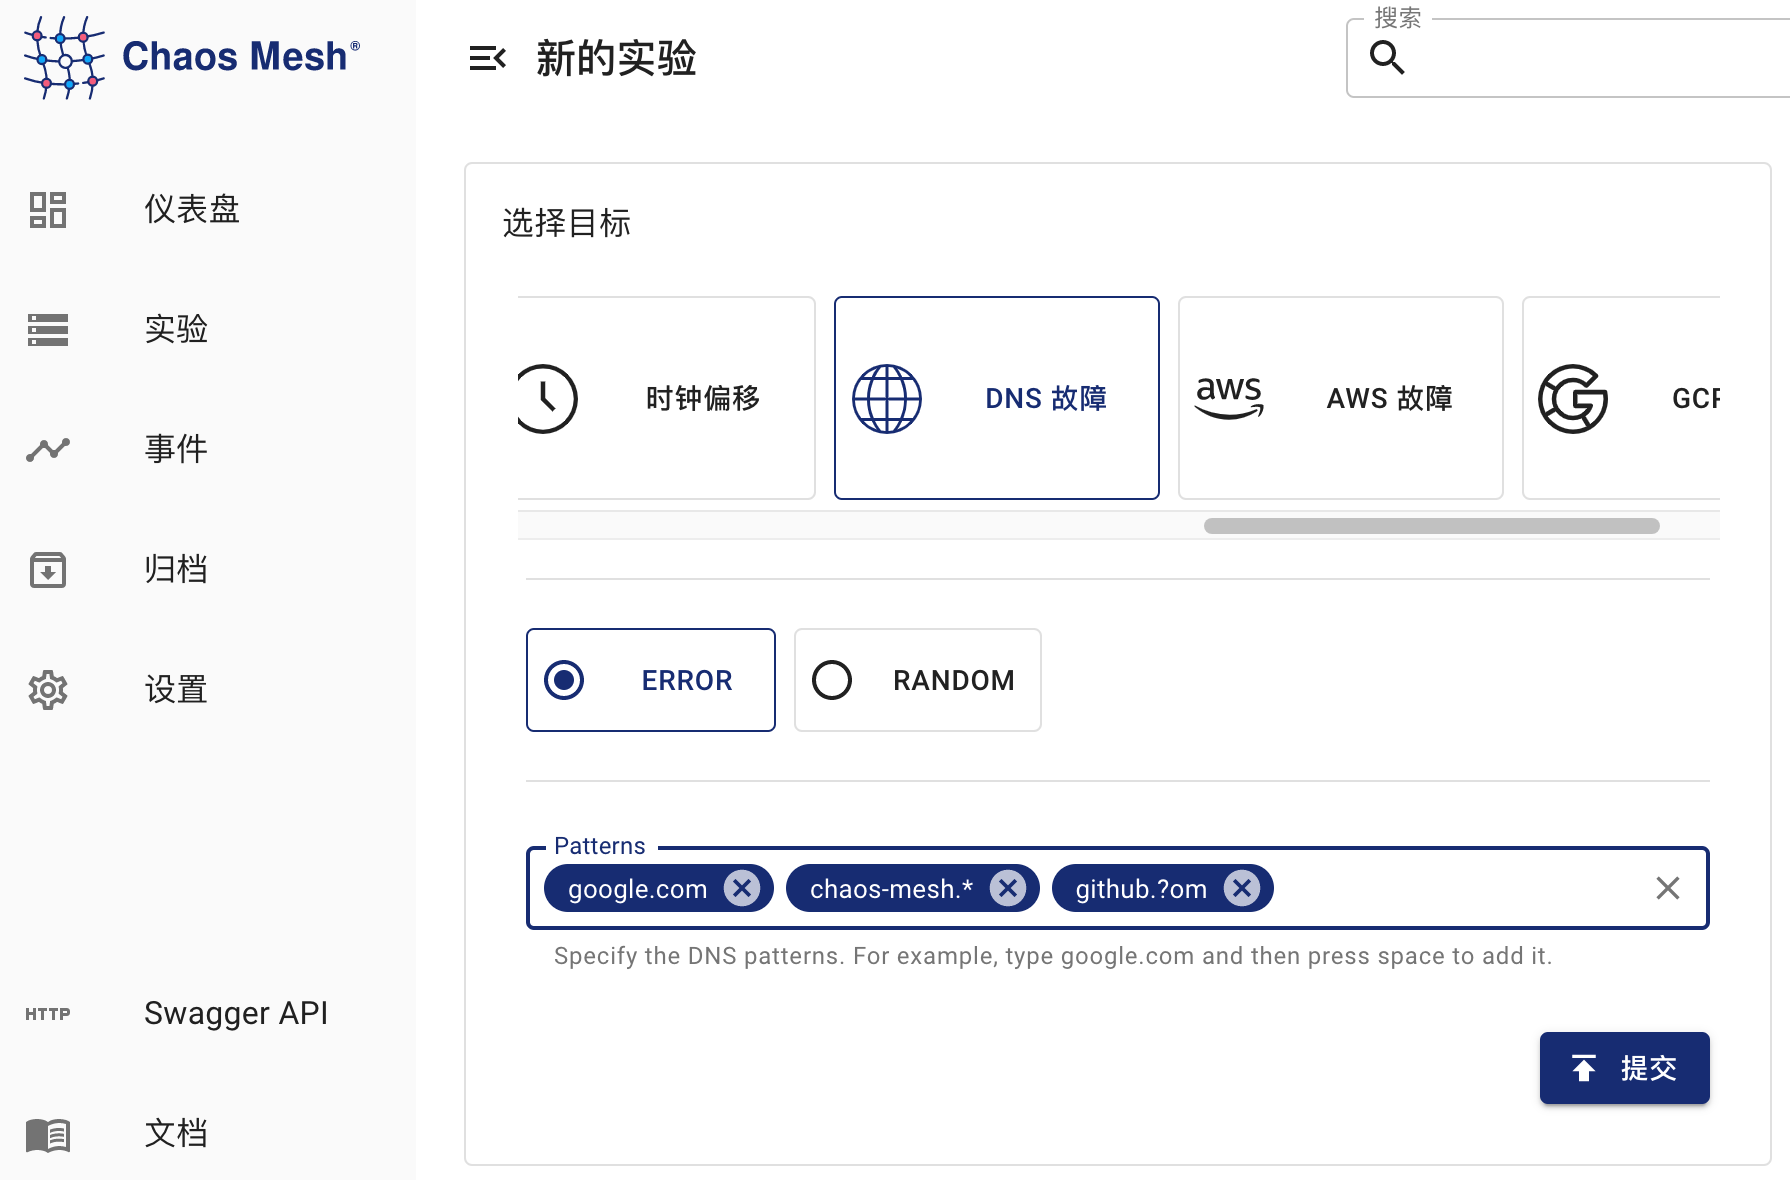
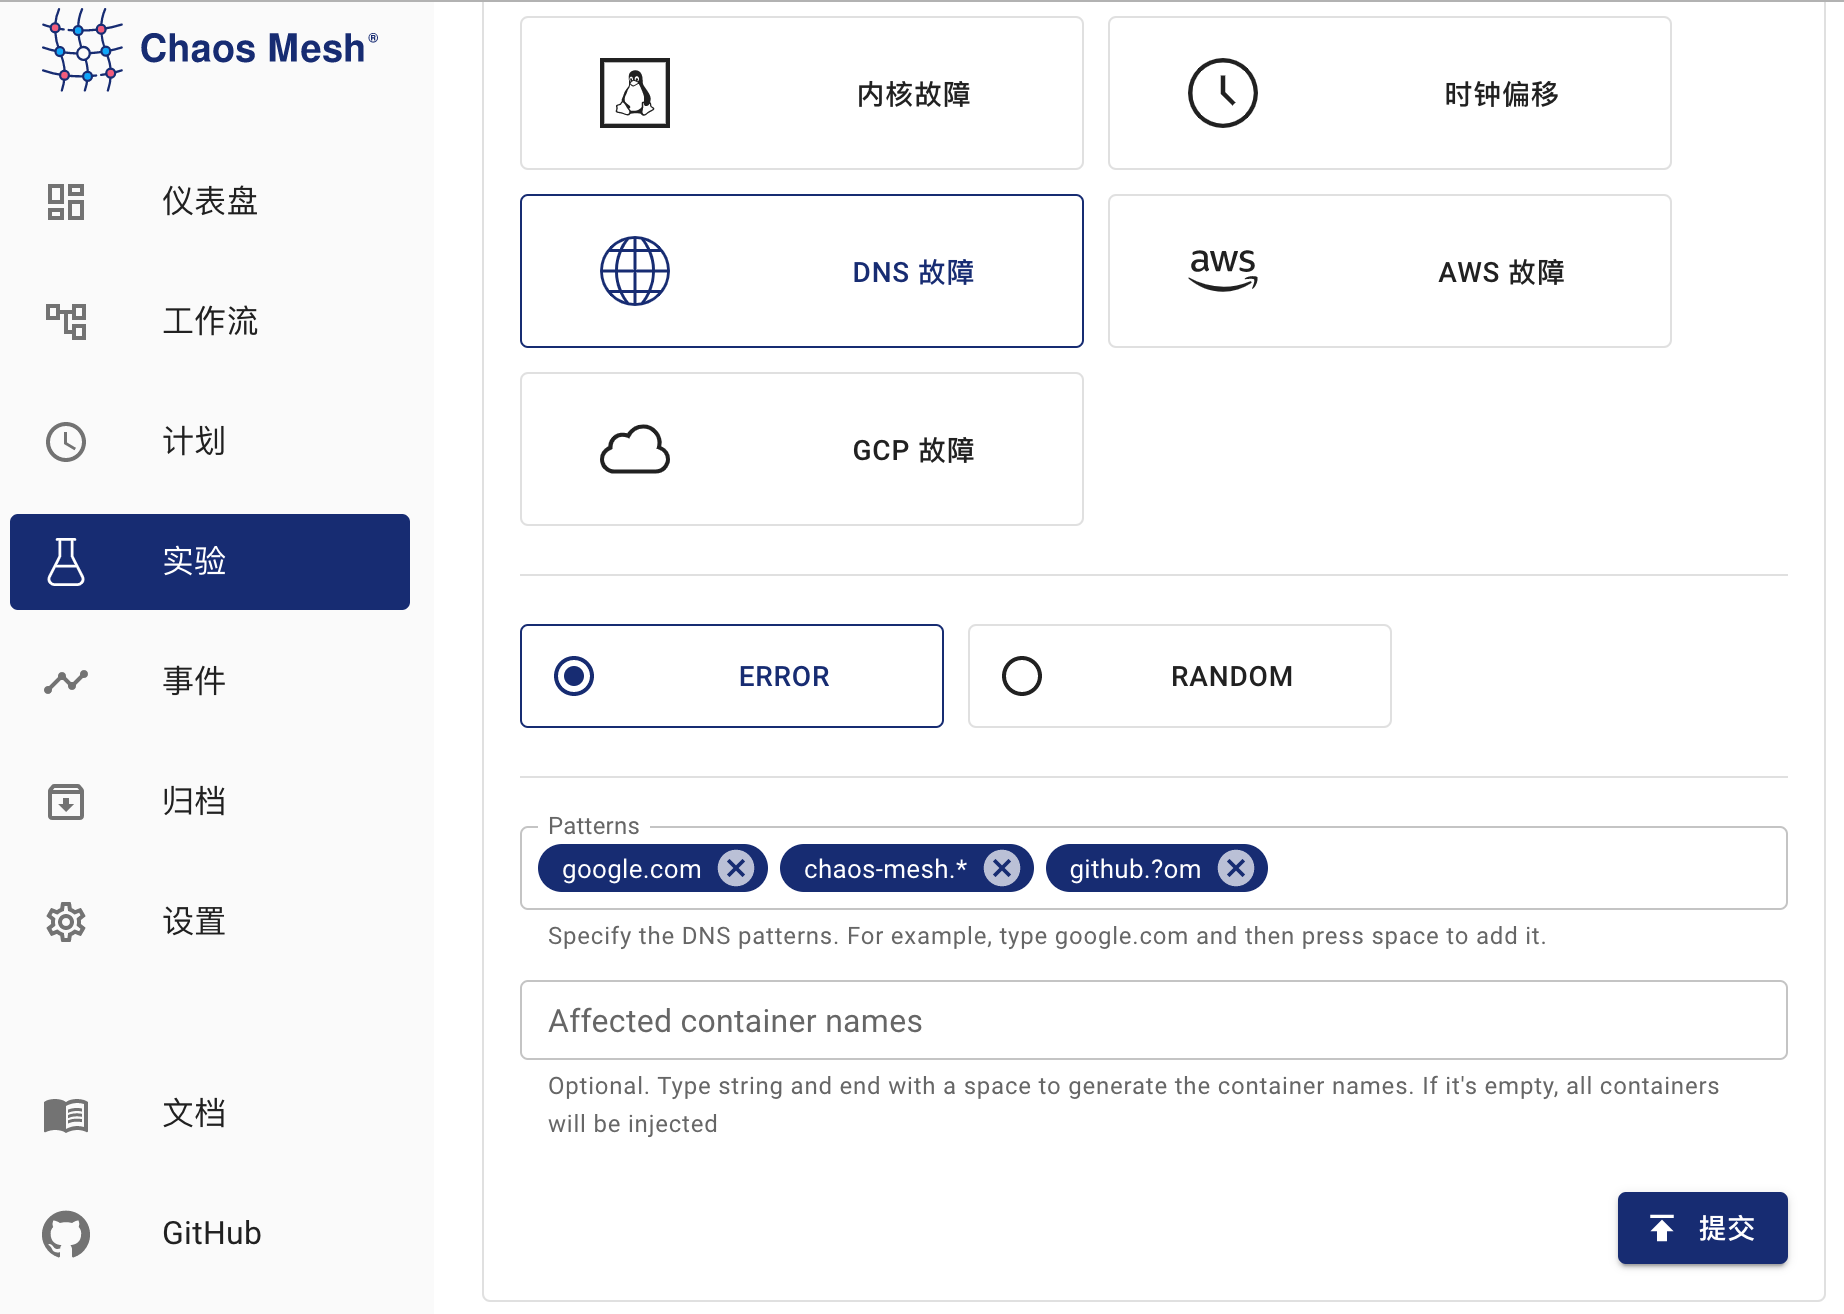
update dns image (#53)

diff --git a/docs/simulate-dns-chaos-on-kubernetes.md b/docs/simulate-dns-chaos-on-kubernetes.md
@@ -39,7 +39,7 @@ kubectl get pods -n chaos-testing -l app.kubernetes.io/component=chaos-dns-serve
 
 1. 单击实验页面中的“新的实验”按钮创建实验：
 
-   ![创建实验](./img/create-new-exp.jpeg)
+   ![创建实验](./img/create-new-exp.png)
 
 2. 在“选择目标”处选择 “DNS 故障”，然后选择具体行为，例如 `ERROR`，最后填写匹配规则：
 
